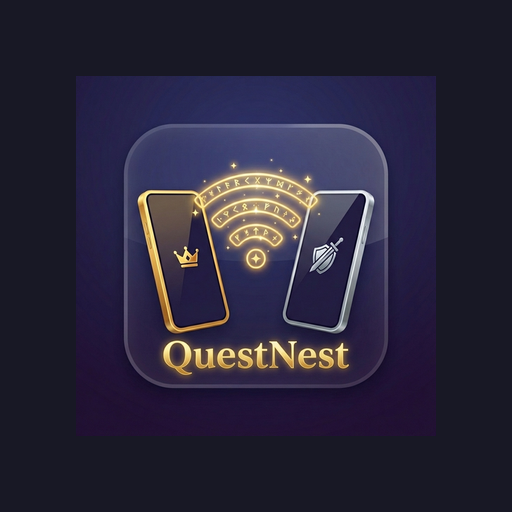
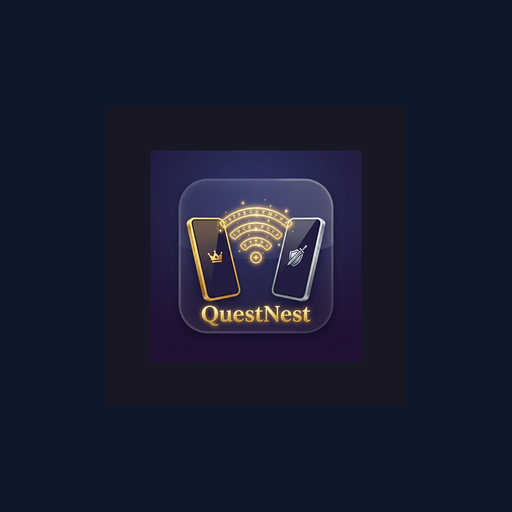
supabase

diff --git a/scripts/resize-icons.js b/scripts/resize-icons.js
@@ -2,27 +2,68 @@ import fs from 'fs';
 import sharp from 'sharp';
 
 async function resizeImages() {
-    console.log('Resizing icons to 512x512...');
+    console.log('Resizing and centering icons...');
 
-    // Resize icon.png
-    await sharp('assets/icon.png')
-        .resize(512, 512)
+    // Background color (Dark Navy from your theme)
+    const BACKGROUND_COLOR = '#0f172a';
+    const CANVAS_SIZE = 512;
+    const ICON_SIZE = 300; // ~60% of canvas size to ensure it's centered and not cut off
+
+    // Create background
+    const background = await sharp({
+        create: {
+            width: CANVAS_SIZE,
+            height: CANVAS_SIZE,
+            channels: 4,
+            background: BACKGROUND_COLOR
+        }
+    }).png().toBuffer();
+
+    // Process icon.png (Center it)
+    const inputIconBuffer = await sharp('assets/icon.png')
+        .resize(ICON_SIZE, ICON_SIZE, { fit: 'contain', background: { r: 0, g: 0, b: 0, alpha: 0 } })
+        .toBuffer();
+
+    await sharp(background)
+        .composite([{ input: inputIconBuffer, gravity: 'center' }])
         .png({ compressionLevel: 9 })
         .toFile('assets/icon_resized.png');
 
-    // Resize adaptive-icon.png
-    await sharp('assets/adaptive-icon.png')
-        .resize(512, 512)
+    console.log('✅ Created centered icon_resized.png');
+
+    // Process adaptive-icon.png (Center it)
+    // For adaptive icon, we might want the same logic if the input is the same full-bleed logo
+    const inputAdaptiveBuffer = await sharp('assets/adaptive-icon.png')
+        .resize(ICON_SIZE, ICON_SIZE, { fit: 'contain', background: { r: 0, g: 0, b: 0, alpha: 0 } })
+        .toBuffer();
+
+    await sharp(background)
+        .composite([{ input: inputAdaptiveBuffer, gravity: 'center' }])
         .png({ compressionLevel: 9 })
         .toFile('assets/adaptive-icon_resized.png');
 
+    console.log('✅ Created centered adaptive-icon_resized.png');
+
     // Replace originals
-    fs.unlinkSync('assets/icon.png');
-    fs.unlinkSync('assets/adaptive-icon.png');
+    // We'll create a backup first just in case
+    if (!fs.existsSync('assets/icon_backup.png')) {
+        fs.copyFileSync('assets/icon.png', 'assets/icon_backup.png');
+    }
+    if (!fs.existsSync('assets/adaptive-icon_backup.png')) {
+        fs.copyFileSync('assets/adaptive-icon.png', 'assets/adaptive-icon_backup.png');
+    }
+
+    try {
+        fs.unlinkSync('assets/icon.png');
+        fs.unlinkSync('assets/adaptive-icon.png');
+    } catch (e) {
+        // Ignore if files don't exist (unlikely)
+    }
+
     fs.renameSync('assets/icon_resized.png', 'assets/icon.png');
     fs.renameSync('assets/adaptive-icon_resized.png', 'assets/adaptive-icon.png');
 
-    console.log('✅ Done! Icons resized to 512x512.');
+    console.log('✅ Done! Icons updated (Backups saved as *_backup.png).');
 }
 
 resizeImages().catch(console.error);
